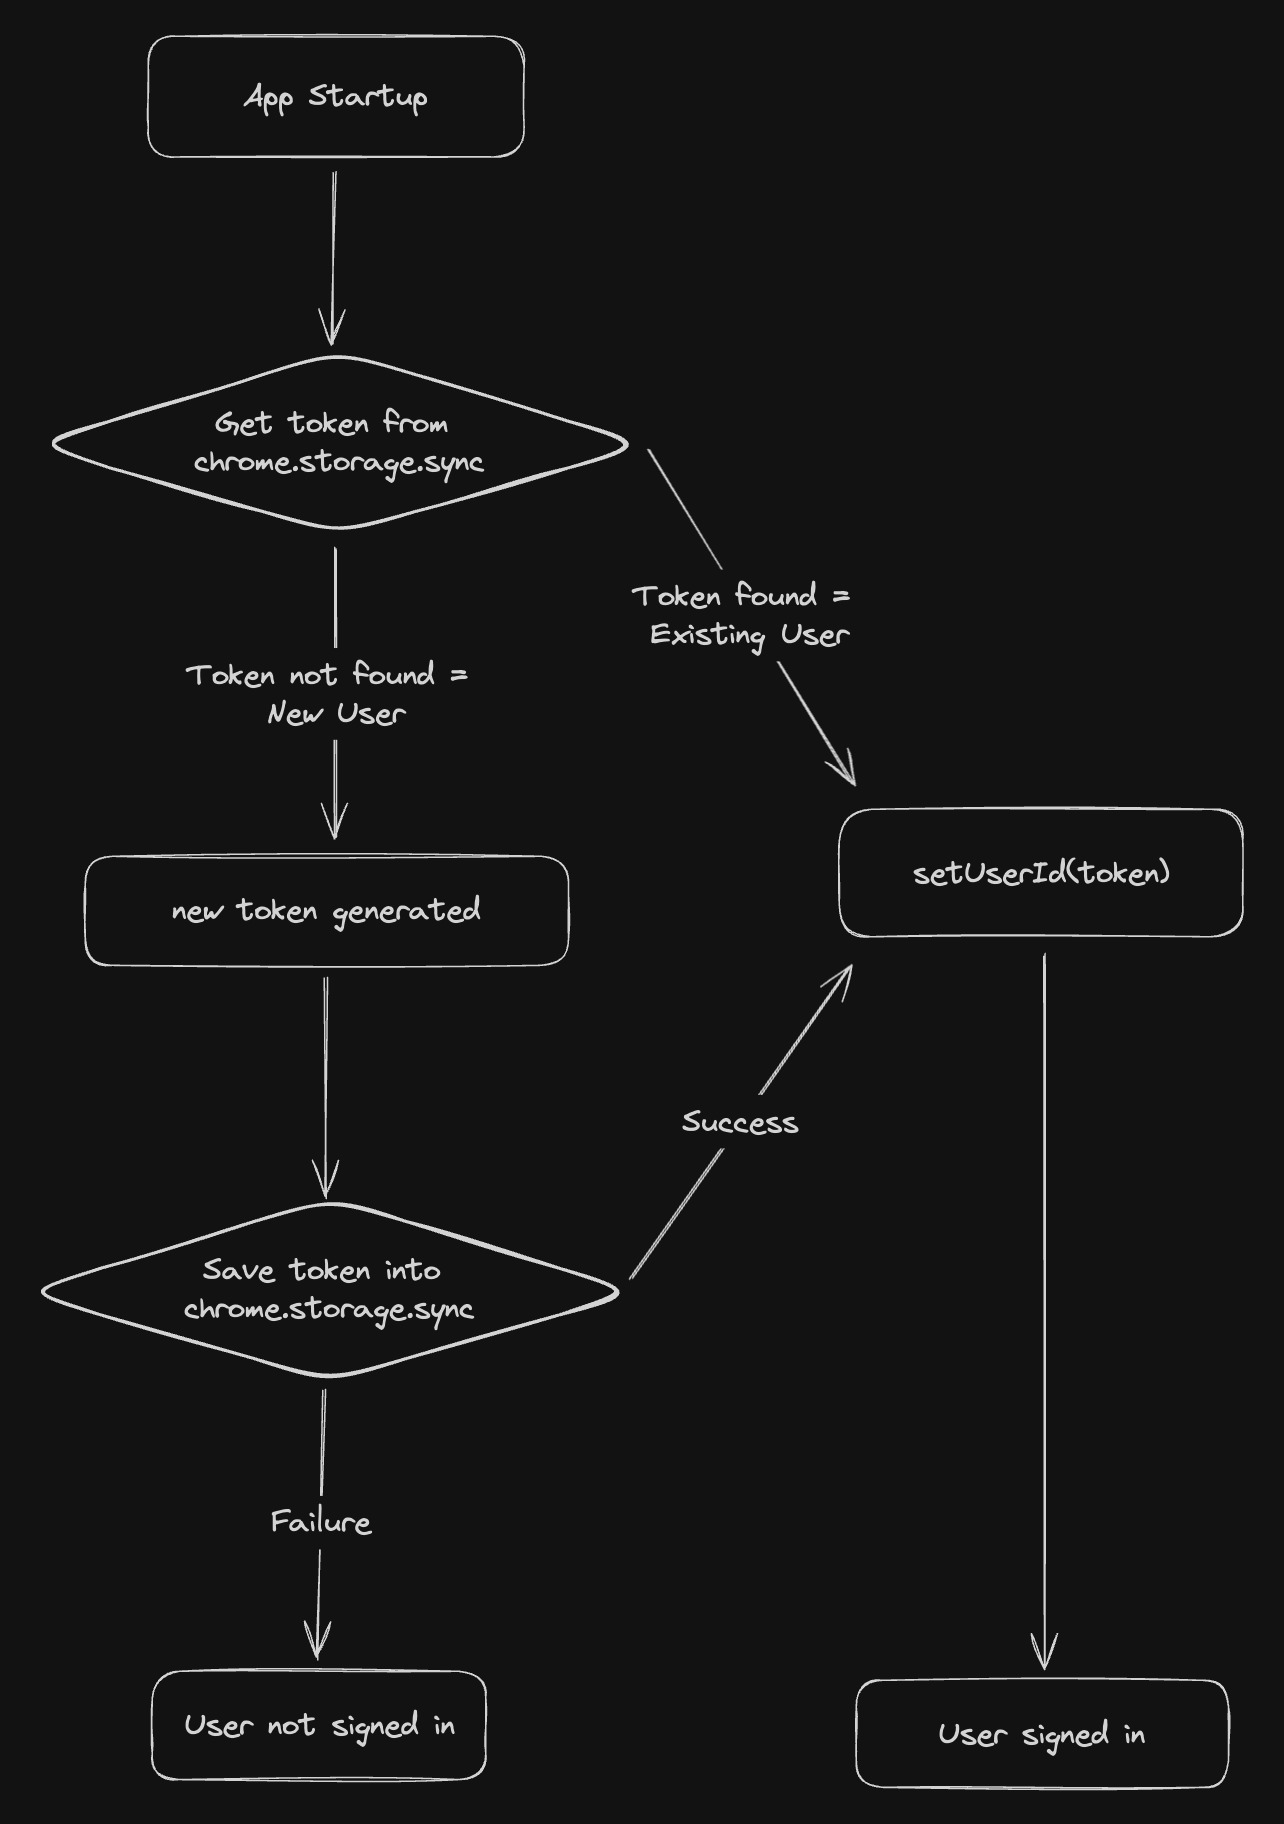
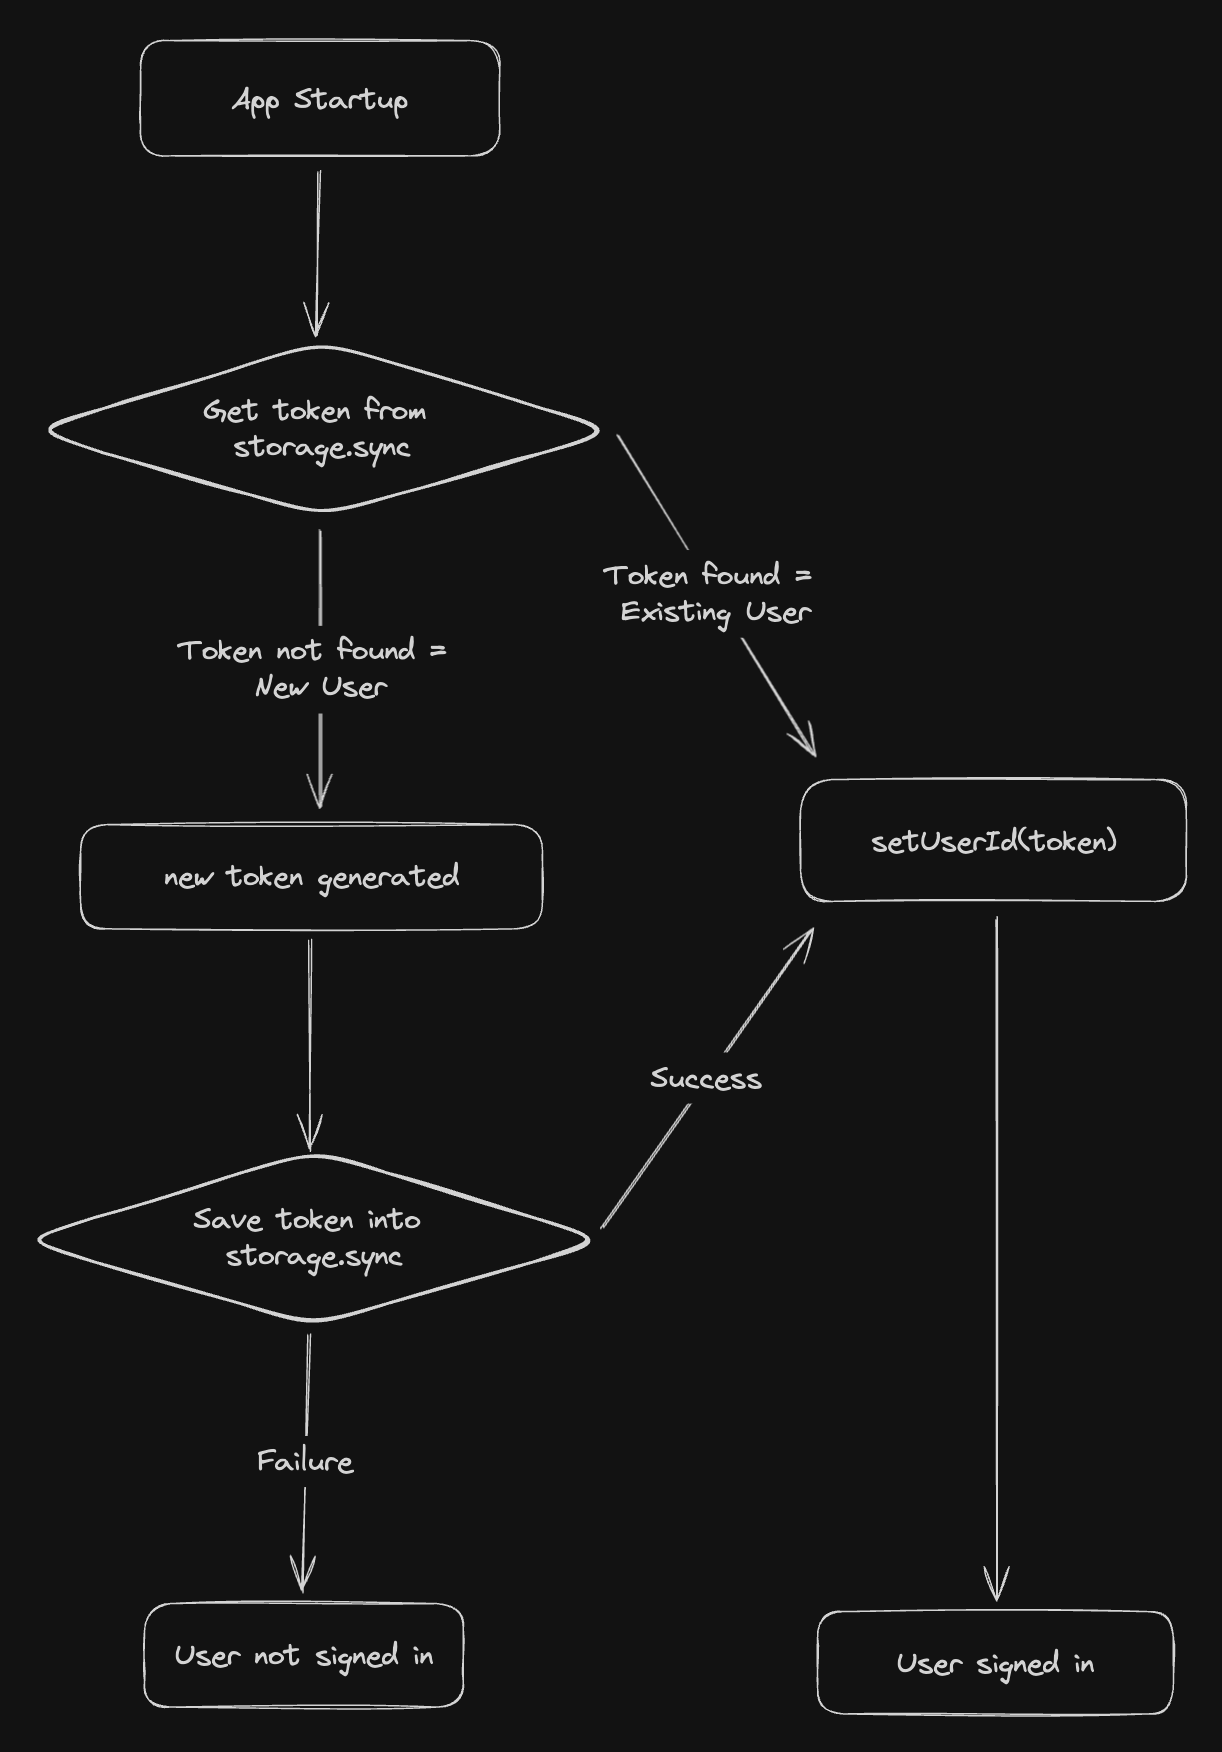
Update tab keeper article

diff --git a/src/content/post/how-anonymous-login-works-on-tabkeeper/index.md b/src/content/post/how-anonymous-login-works-on-tabkeeper/index.md
@@ -1,32 +1,36 @@
 ---
 title: "Deep Dive into Tab Keeper's Anonymous Login Mechanism"
-description: "An in-depth look at how Tab Keeper leverages chrome.storage.sync for efficient and secure cross-device synchronization"
+description: "An in-depth look at how Tab Keeper leverages the chrome.storage API for efficient and secure cross-device synchronization"
 publishDate: "04 Oct 2023"
 tags: ["tab keeper", "chrome extension", "system design", "anonymous login"]
 draft: false
 featured: true
 ---
 
+## Introduction
+
+[Tab Keeper](https://chromewebstore.google.com/detail/tab-keeper-chrome-tab-man/gpibgniomobngodpnikhheifblbpbbah?ref=portfolio) is an open-source[^1] Chrome extension project I initiated, designed for efficient tab management and cross-device synchronization. In this post, I will explain in detail the technical aspects of implementing Tab Keeper's anonymous login mechanism, leveraging the `chrome.storage`[^2] API.
+
 ## Rationale Behind the Shift
 
-It's amazing how a single comment can shift your perspective. That's what happened with Tab Keeper. After seeing a Reddit discussion pointing out the unnecessary hassle of the login process, it clicked: why not make things simpler? So, I decided to integrate `chrome.storage.sync` for an anonymous login experience. The goal was to streamline the data synchronization across devices, emphasizing security and privacy without the cumbersome login steps. Long gone are the days when users had to sign up with their private email addresses just to enjoy seamless cross-device data synchronization.
+It's amazing how a single comment can shift your perspective. That's what happened with Tab Keeper. After seeing a Reddit discussion pointing out the unnecessary hassle of the login process, it clicked: why not make things simpler? So, I decided to integrate the `chrome.storage` API for an anonymous login experience. The goal was to streamline the data synchronization across devices, emphasizing security and privacy without the cumbersome login steps. Long gone are the days when users had to sign up with their private email addresses just to enjoy seamless cross-device data synchronization.
 
 ## How It Works
 
 The mechanism is straightforward:
 
-- **For Returning User**: If a UUID is found in the user's `chrome.storage.sync`, it's used to pull data from Firebase Cloud Firestore.
-- **For New User**: Absence of a UUID triggers the generation and storage of a new one in `chrome.storage.sync`.
+- **For Returning User**: If a UUID is found in the user's `storage.sync`, it's used to pull data from Firebase Cloud Firestore.
+- **For New User**: Absence of a UUID triggers the generation and storage of a new one in `storage.sync`.
 
 ## Technical Overview
 
 ![Tab Keeper's Anonymous Login Flow](./handling-anonymous-login.png)
 
-The system is designed to work optimally when users have Chrome sync enabled. If Chrome sync is not enabled, the extension uses a fallback strategy, resembling `localStorage`, ensuring data persistence locally without synchronization.
+The system is designed to work optimally when users have Chrome sync enabled. If Chrome sync is not enabled, the extension uses a fallback strategy using `storage.local`, almost[^3] resembling `localStorage`, ensuring data persistence locally without synchronization.
 
 ## Why Firebase Cloud Firestore?
 
-Despite the efficient data syncing capabilities of `chrome.storage.sync`, it has storage limitations (100KB in total, 8KB per item). Therefore, Firebase Cloud Firestore is used for its scalability and flexibility, with the UUID serving as a unique reference to the user's data.
+Despite the efficient data syncing capabilities of the `chrome.storage` API, it has storage limitations (100KB in total, 8KB per item)[^4]. Therefore, Firebase Cloud Firestore is used for its scalability and flexibility, with the UUID serving as a unique reference to the user's data.
 
 ## Future Considerations
 
@@ -34,4 +38,9 @@ Based on user feedback, I'm exploring the idea of adding an optional login modul
 
 ## Impact on User Experience
 
-The shift to anonymous login with `chrome.storage.sync` in Tab Keeper has been a game-changer. It's streamlined the user experience, making it hassle-free and more secure. Users now enjoy seamless cross-device synchronization without the cumbersome login process. As Tab Keeper continues to evolve, I remain committed to this journey of innovation, always with an ear to the ground for your invaluable feedback and suggestions.
+The shift to anonymous login has been a game-changer for Tab Keeper. This feature has not only streamlined the user experience, making the extension more efficient and secure, but it has also been instrumental in its growth to over 350 monthly active users worldwide. This increase in users is a testament to the appeal of hassle-free and seamless cross-device synchronization without the need for a cumbersome login process. As Tab Keeper continues to evolve, I remain committed to this journey of innovation, always with an ear to the ground for your invaluable feedback and suggestions.
+
+[^1]: [Tab Keeper GitHub Repository](https://github.com/justine-george/tab-keeper-react-chrome-extension)
+[^2]: [API reference for `chrome.storage`](https://developer.chrome.com/docs/extensions/reference/api/storage)
+[^3]: [Details of various Chrome storage areas](https://developer.chrome.com/docs/extensions/reference/api/storage#storage_areas)
+[^4]: [Storage limits of `storage.sync`](https://developer.chrome.com/docs/extensions/reference/api/storage#storage_areas)
